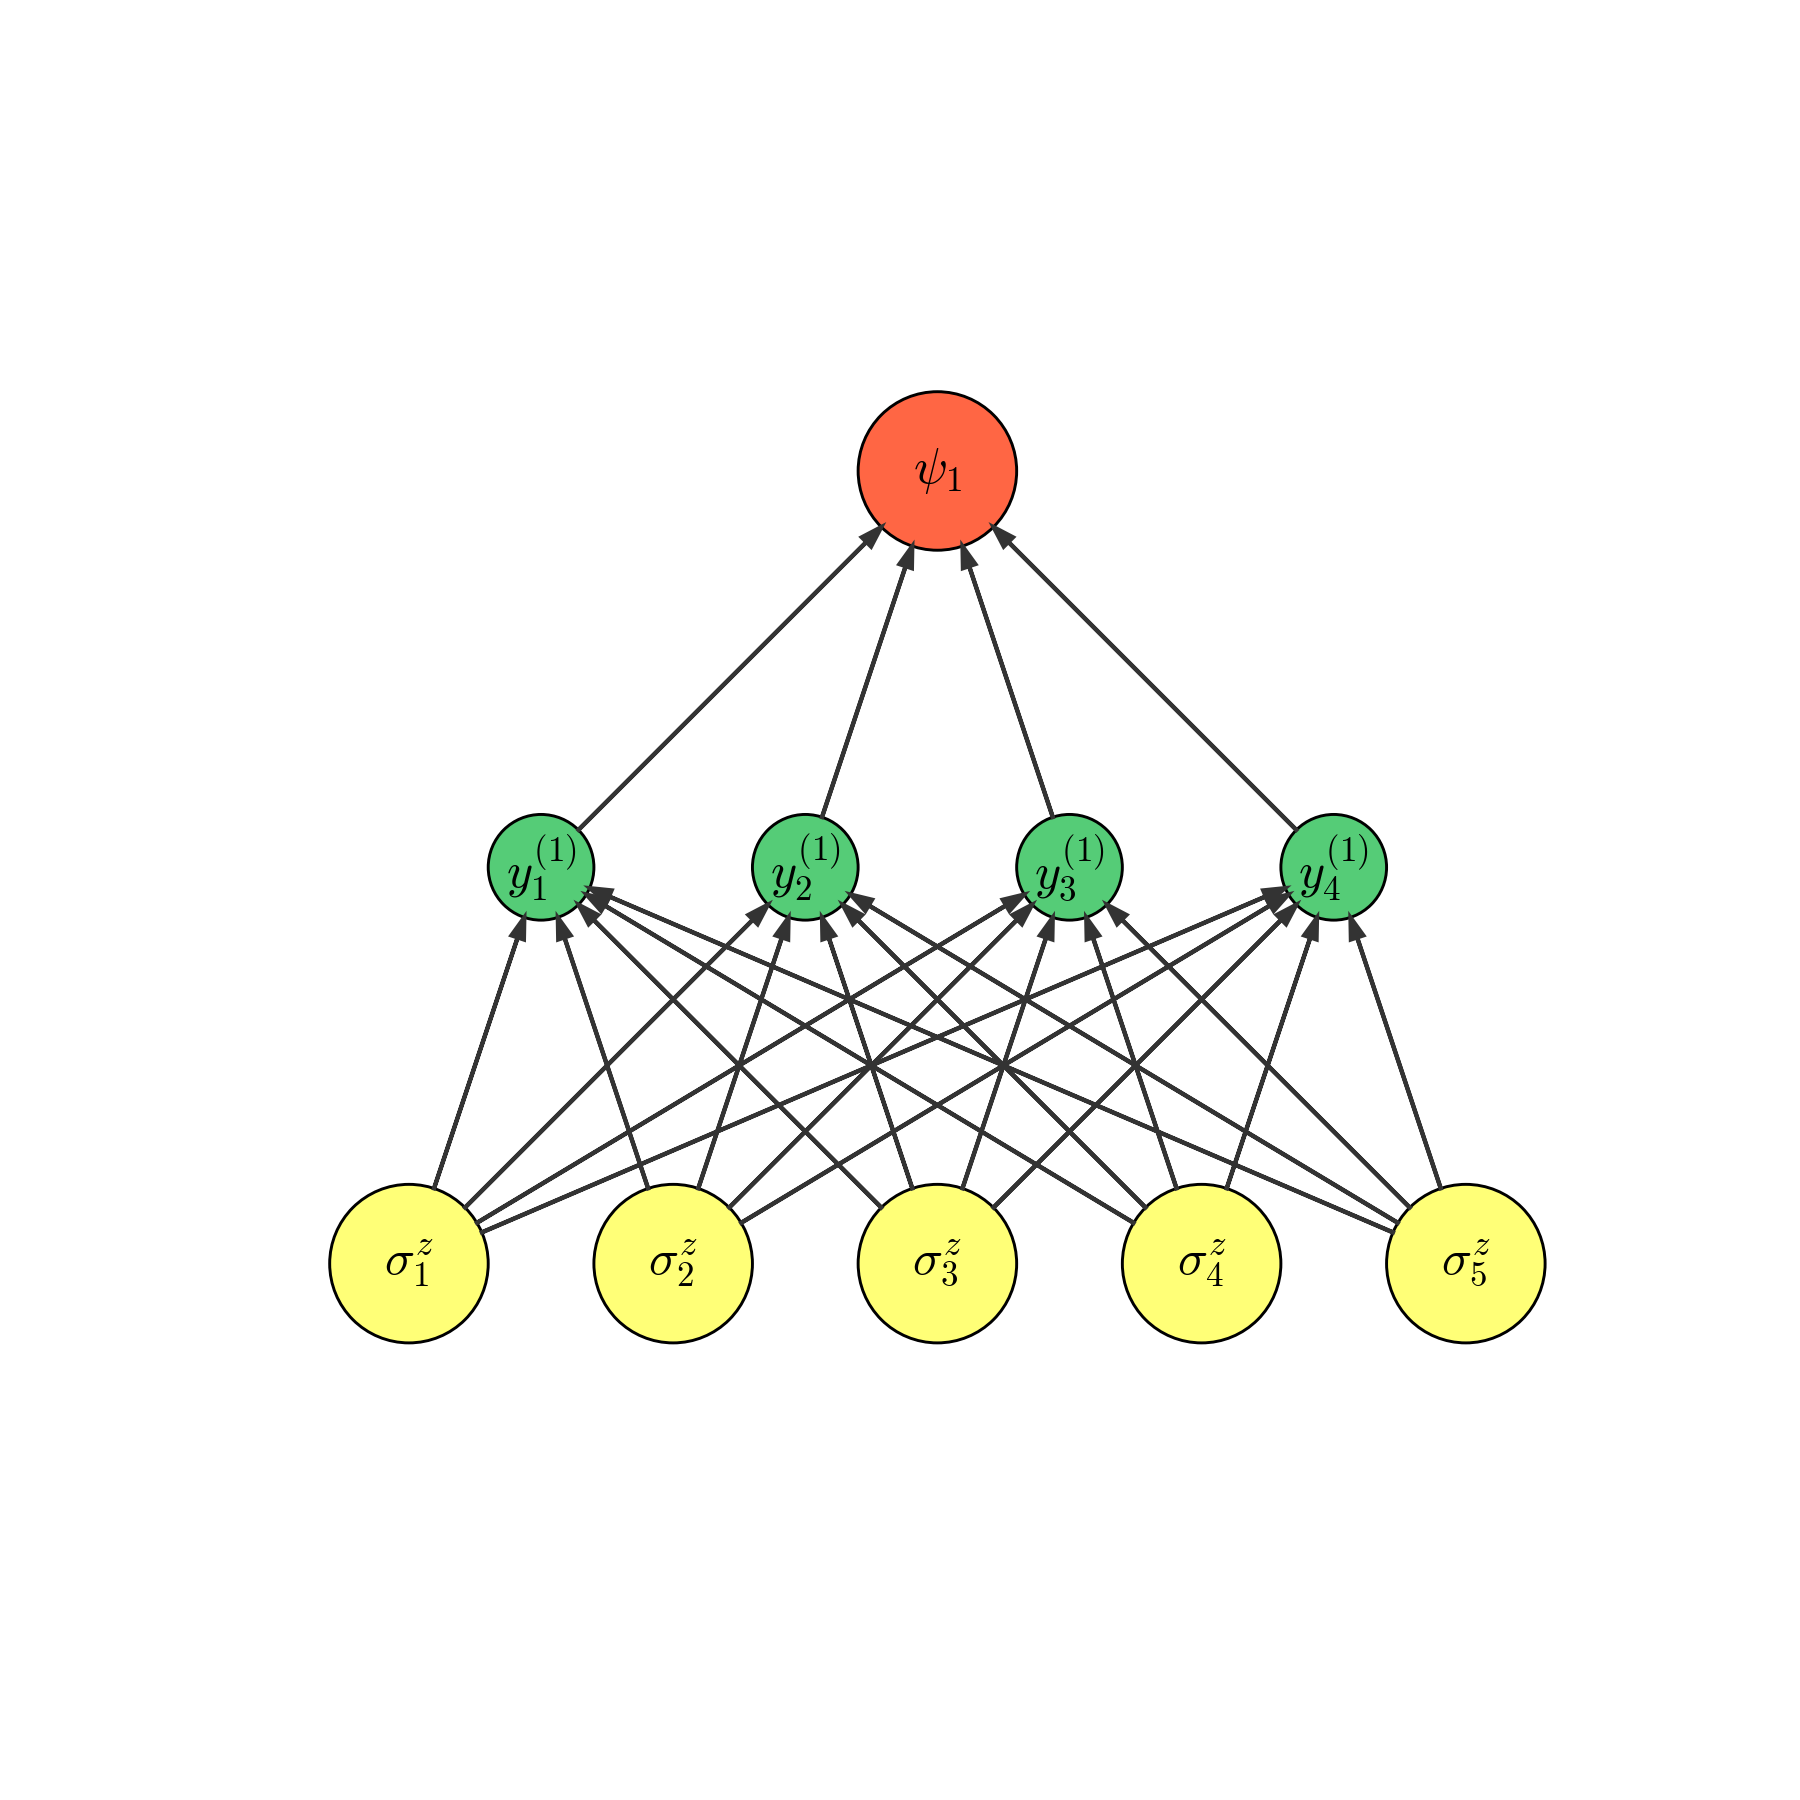
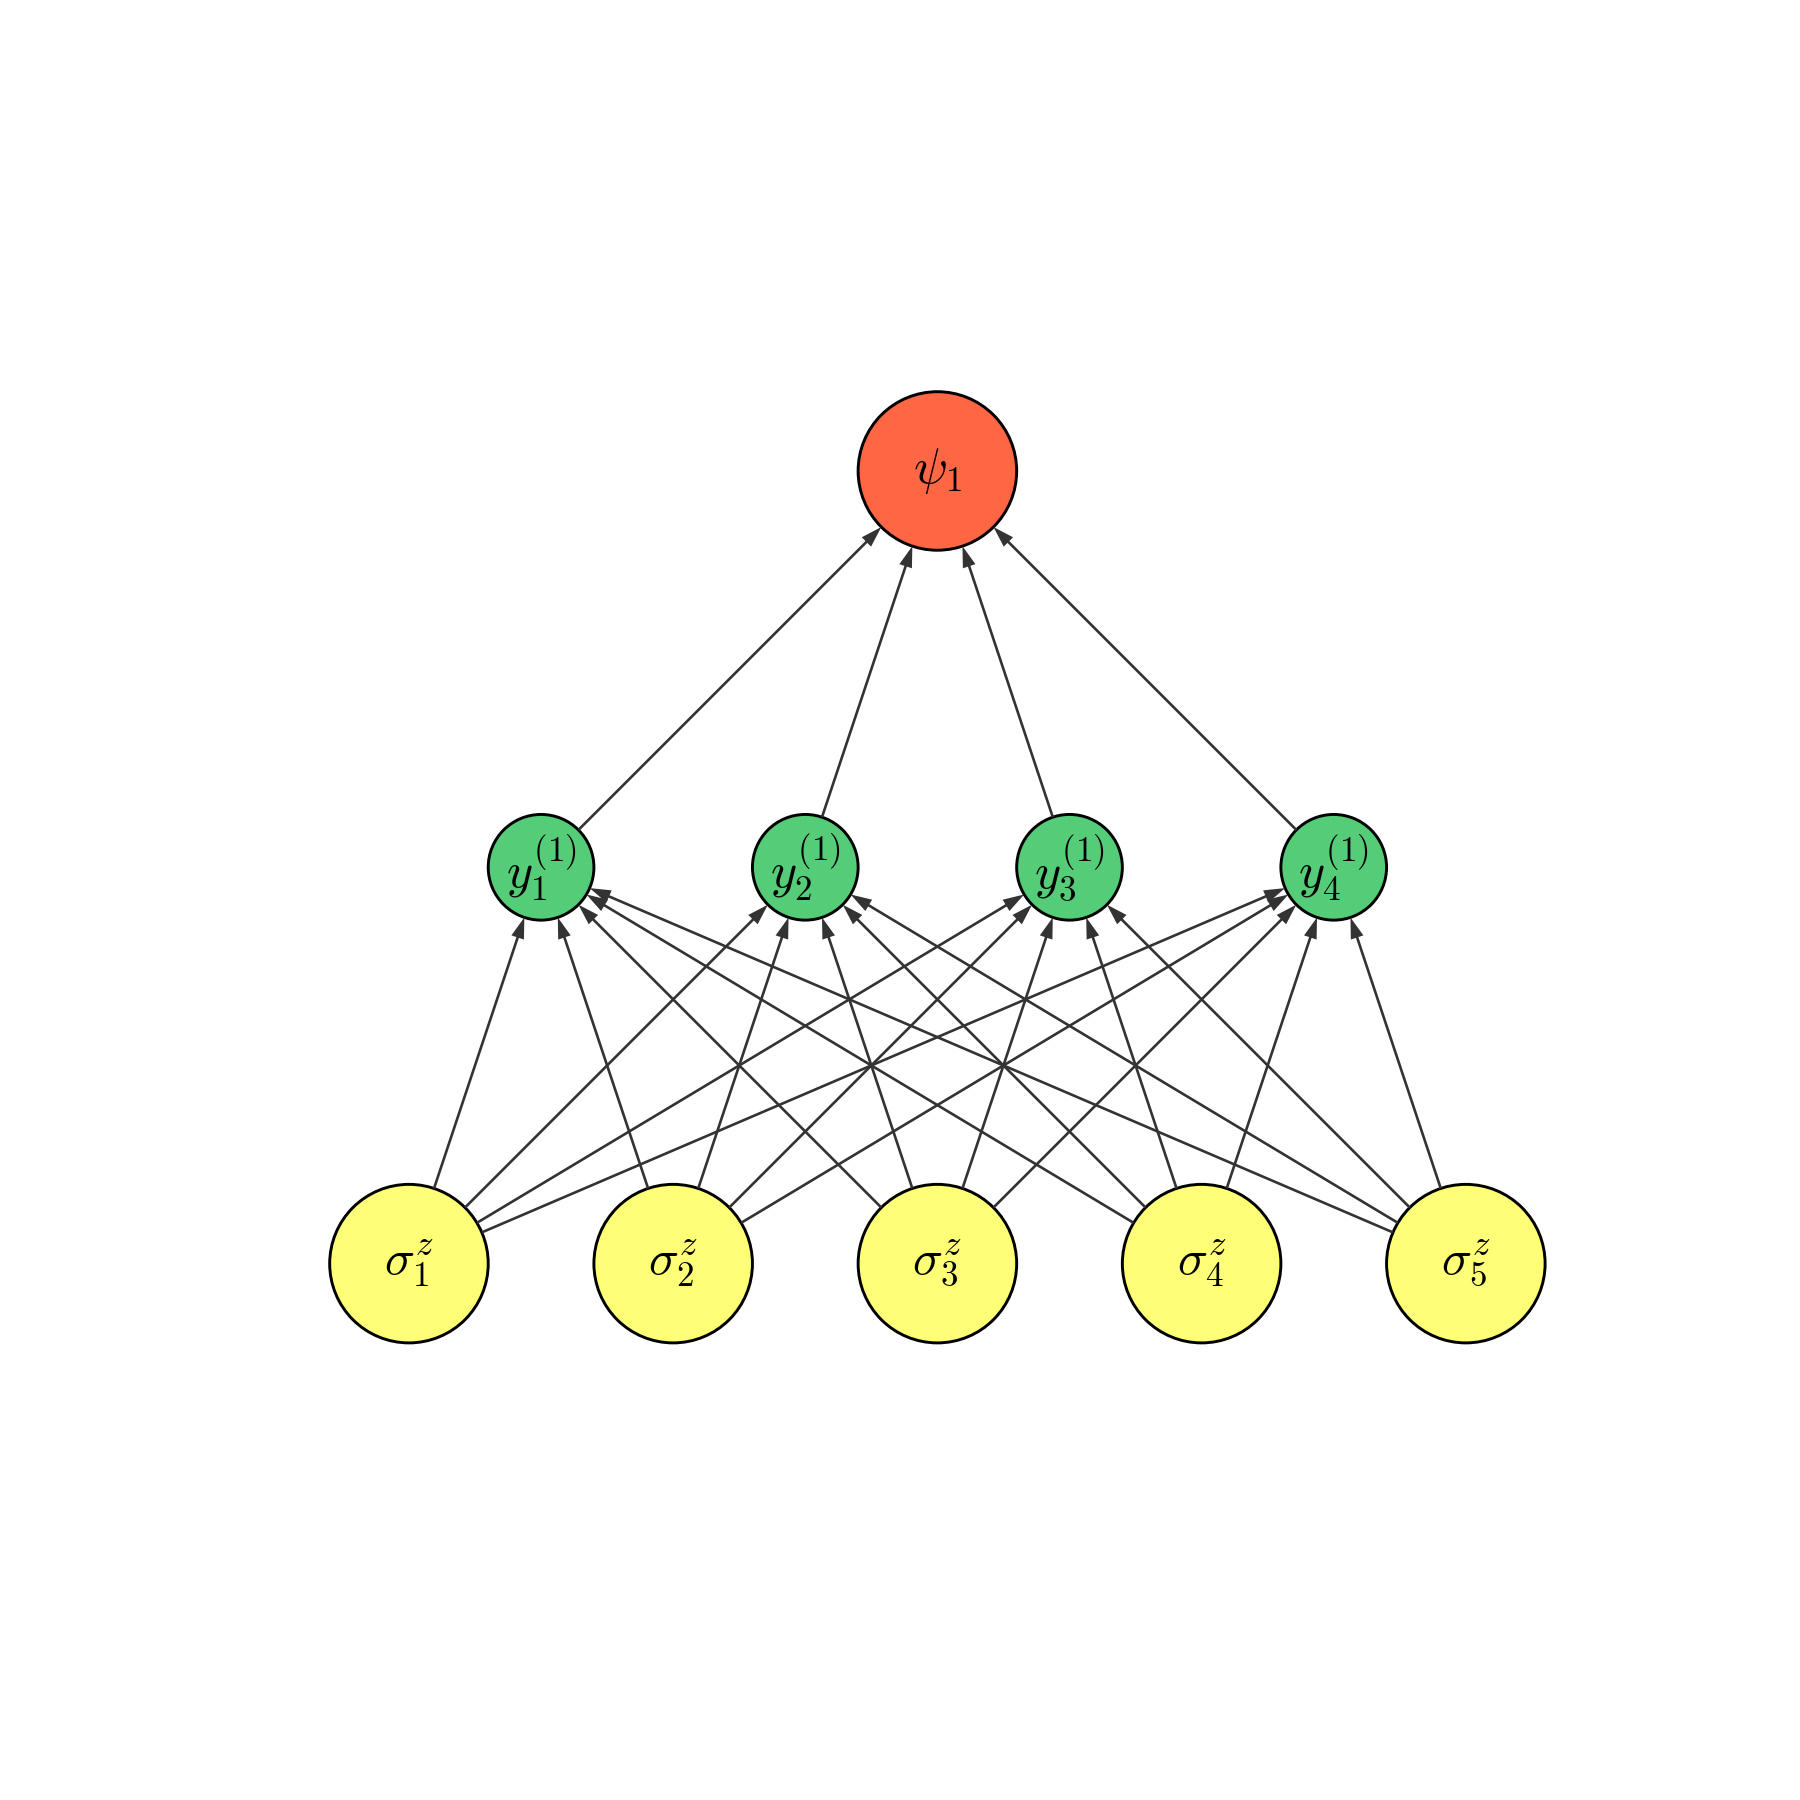
make notation reference table better

diff --git a/viznet/netbasic.py b/viznet/netbasic.py
@@ -60,9 +60,9 @@ class NNPlot(object):
         exy = -unit_d * en.radius + exy
         d = exy - sxy
         arr = self.ax.arrow(sxy[0], sxy[1], d[0], d[1],
-                            head_length=8e-2 if directed else 0,
-                            head_width=5e-2, fc='#333333', ec='#333333',
-                            length_includes_head=True, lw=1)
+                            head_length=8e-2 if directed else 0, width=0.01,
+                            head_width=5e-2, fc='#333333',# ec='#333333',
+                            length_includes_head=True, lw=0, edgecolor='none')
 
         self.edge_dict['%s-%s' % (start, end)] = arr
 
@@ -105,6 +105,14 @@ class NNPlot(object):
 
         self.node_dict[name] = c
 
+    def text_node(self, name, text, offset=(0,0)):
+        '''
+        add texts for a sequence of nodes.
+        '''
+        c = self.node_dict[name]
+        x, y = c.center + np.array(offset)
+        self.ax.text(x, y, text, va='center', ha='center')
+
     def add_node_sequence(self, num_node, token, y, kind='basic', radius=0.2, offset=(0, 0), show_name=True):
         '''
         add a sequence of nodes along x-direction.
@@ -132,10 +140,8 @@ class NNPlot(object):
         '''
         add texts for a sequence of nodes.
         '''
-        for i, name in enumerate(text_list):
-            c = self.node_dict[self.auto_name(token, i)]
-            x, y = c.center + np.array(offset)
-            self.ax.text(x, y, name, va='center', ha='center')
+        for i, t in enumerate(text_list):
+            c = self.text_node(self.auto_name(token, i), t, offset)
 
     def auto_name(self, token, i):
         return r'$%s_%d$' % (token, i + 1)

diff --git a/viznet/tests/test_netbasic.py b/viznet/tests/test_netbasic.py
@@ -30,12 +30,12 @@ def test_draw_feed_forward():
 
 def test_theme_table():
     '''plot a table of node themes'''
-    with DynamicShow((8, 4), filename='_theme_list.png') as d:
+    with DynamicShow((11, 6), filename='_theme_list.png') as d:
         handler = NNPlot(d.ax)
         for i, kind in enumerate(NODE_THEME_DICT.keys()):
-            handler.add_node(name=kind[:2].upper(),
-                             xy=(i // 2, i % 2), kind=kind)
-
+            handler.add_node(name=kind,
+                             xy=(i // 3, i % 3), kind=kind, show_name=False)
+            handler.text_node(kind, kind, offset=(0,-0.4))
 
 if __name__ == '__main__':
     test_theme_table()
